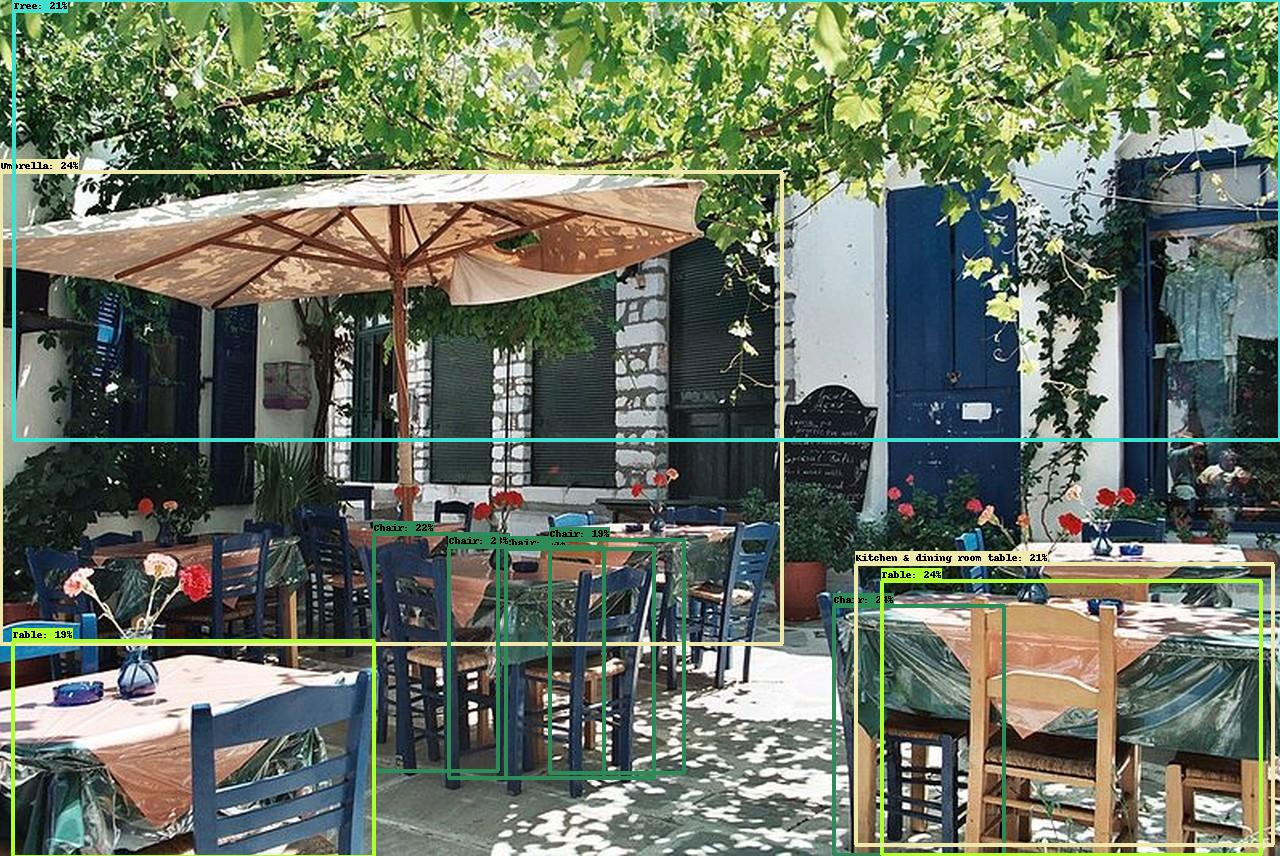
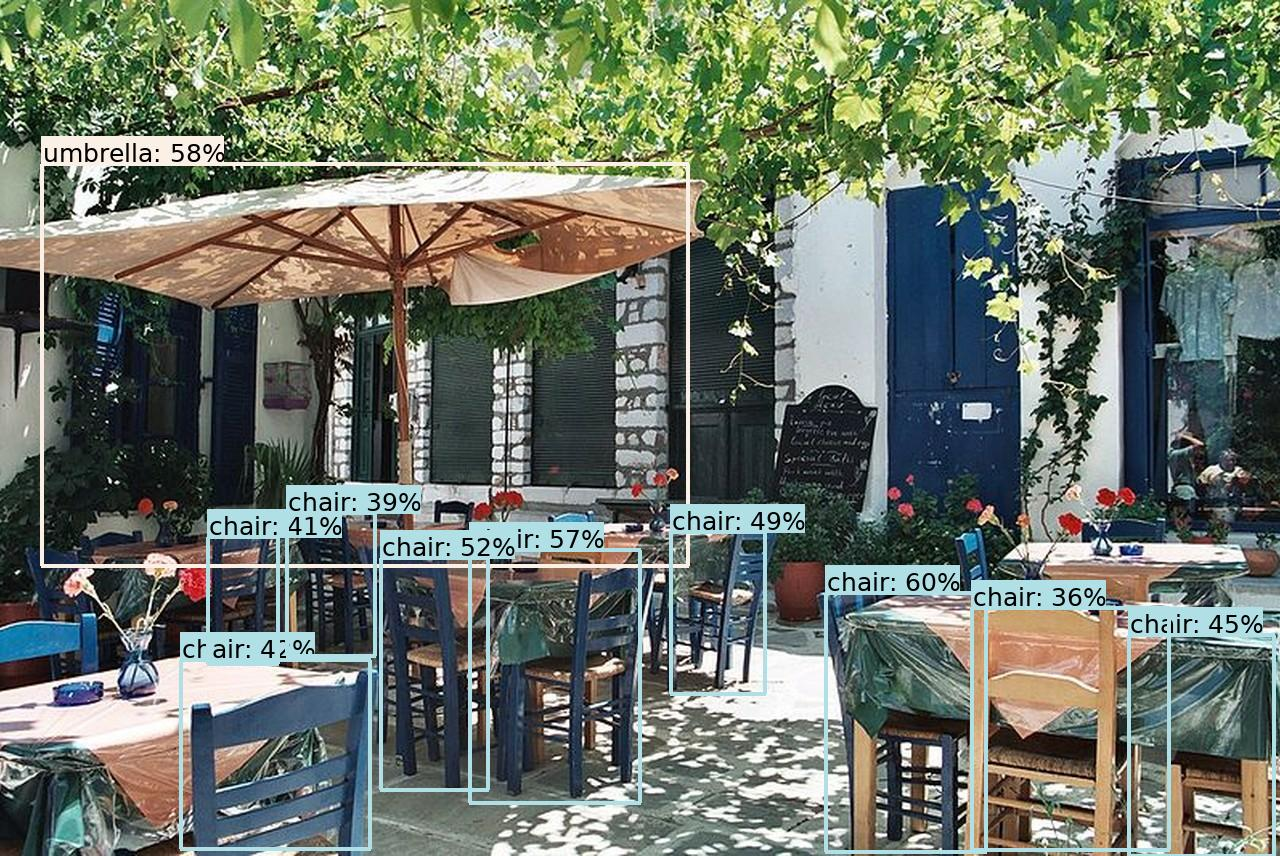
[NEW] chenged model to  efficientdet0

diff --git a/main.py b/main.py
@@ -28,6 +28,27 @@ import time
 # # Check available GPU devices.
 # print("The following GPU devices are available: %s" % tf.test.gpu_device_name())
 
+def load_img(path:str):
+    img = tf.io.read_file(path)
+    img = tf.image.decode_jpeg(img, channels=3)
+    return img
+
+
+def save_img(image, outputFileName='./output.jpg'):
+    plt.imsave(outputFileName, image)
+    print(f"Images is saved as {outputFileName}")
+
+
+def parse_coco_labels(filename = './coco_labels.txt'):
+    coco_dict = {}
+    for line in open(filename, 'r').readlines():
+        line = line.rstrip('\n')
+        phrases = line.split(',')
+        key = int(phrases[0].split(':')[1])
+        value = phrases[1].split(':')[1]
+        coco_dict[key] = value
+
+    return coco_dict
 
 def download_and_resize_image(url: str, new_width: int = 256, new_height: int = 256) -> str:
     """downloads and saves the image on a temporary file, return the path of that file"""
@@ -71,15 +92,11 @@ def draw_bounding_box_on_image(
     """Adds a bounding box to an image."""
     # draw is an editable image where we can draw stuffs, any changes in draw also gets reflected in the image
     draw = ImageDraw.Draw(image)
-    im_width, im_height = image.size
+    # im_width, im_height = image.size
 
+    
     # xmin, xmax, ymin, ymax -> values between 0 and 1 according to whole image resolution
-    (left, right, top, bottom) = (
-        xmin * im_width,
-        xmax * im_width,
-        ymin * im_height,
-        ymax * im_height
-    )
+    (left, right, top, bottom) = tuple(map(lambda val: round(float(val)), [xmin, xmax, ymin, ymax]))
 
     # draw rectangle in the bounding box
     draw.line(
@@ -132,23 +149,23 @@ def draw_bounding_box_on_image(
 
 def draw_boxes(image, boxes, class_names, scores, max_boxes=10, min_score=0.1):
     """Overlay labeled boxes on an image with formatted scores and label names."""
+
     colors = list(ImageColor.colormap.values())
 
     try:
-        font = ImageFont.truetype("/usr/share/fonts/truetype/dejavu/DejaVuSans.ttf",
-                                  25)
+        font = ImageFont.truetype("/usr/share/fonts/truetype/dejavu/DejaVuSans.ttf",25)
     except IOError:
         print("Font not found, using default font.")
         font = ImageFont.load_default()
 
+    coco_label_dict = parse_coco_labels()
+
     for i in range(min(boxes.shape[0], max_boxes)):
         if scores[i] >= min_score:
             ymin, xmin, ymax, xmax = tuple(boxes[i])
-            display_str = "{}: {}%".format(
-                class_names[i].decode("ascii"),
-                int(100 * scores[i])
-            )
-            color = colors[hash(class_names[i]) % len(colors)]
+            object_str = coco_label_dict[class_names[i]] 
+            display_str = f"{object_str}: {int(100 * scores[i])}%"
+            color = colors[hash(object_str) % len(colors)]
             image_pil = Image.fromarray(np.uint8(image)).convert("RGB")
             draw_bounding_box_on_image(
                 image_pil, ymin, xmin, ymax, xmax, color, font, display_str_list=[display_str]
@@ -157,52 +174,42 @@ def draw_boxes(image, boxes, class_names, scores, max_boxes=10, min_score=0.1):
     return image
 
 
-def load_img(path:str):
-    img = tf.io.read_file(path)
-    img = tf.image.decode_jpeg(img, channels=3)
-    return img
-
-
-def save_img(image, outputFileName='./output.jpg'):
-    plt.imsave(outputFileName, image)
-    print(f"Images is saved as {outputFileName}")
-
-
 def run_detector(detector, path):
     img = load_img(path)
 
-    converted_img = tf.image.convert_image_dtype(img, tf.float32)[tf.newaxis, ...]
+    converted_img = tf.image.convert_image_dtype(img, tf.uint8)[tf.newaxis, ...]
 
     start_time = time.time()
-    result = detector(converted_img)
+    boxes, scores, classes, num_detections = detector(converted_img)
     end_time = time.time()
 
     result = {
-        key: value.numpy() for key, value in result.items()
+        'detection_boxes': boxes[0],
+        'detection_scores': scores[0],
+        'detection_classes': list(map(int, classes[0]))
     }
 
     print(result.keys())
 
-    print("Found %d objects." % len(result["detection_scores"]))
+    print(f"Found {int(num_detections)} objects.")
     print(f"Inference time: {end_time-start_time} s")
 
     image_with_boxes = draw_boxes(
         img.numpy(),
         result["detection_boxes"],
-        result["detection_class_entities"],
+        result["detection_classes"],
         result["detection_scores"]
     )
 
     save_img(image_with_boxes)
-
 
 # By Heiko Gorski, Source: https://commons.wikimedia.org/wiki/File:Naxos_Taverna.jpg
 image_url = "https://upload.wikimedia.org/wikipedia/commons/thumb/6/60/Naxos_Taverna.jpg/800px-Naxos_Taverna.jpg"
 downloaded_image_path = download_and_resize_image(image_url, 1280, 856)
 
 # Download and load the model
-module_handle = "1https://tfhub.dev/google/openimages_v4/ssd/mobilenet_v2/"
-detector = hub.load(module_handle).signatures['default']
+module_handle = "https://tfhub.dev/tensorflow/efficientdet/lite0/detection/1"
+detector = hub.load(module_handle)
 
 if __name__ == '__main__':
     run_detector(detector, downloaded_image_path)
